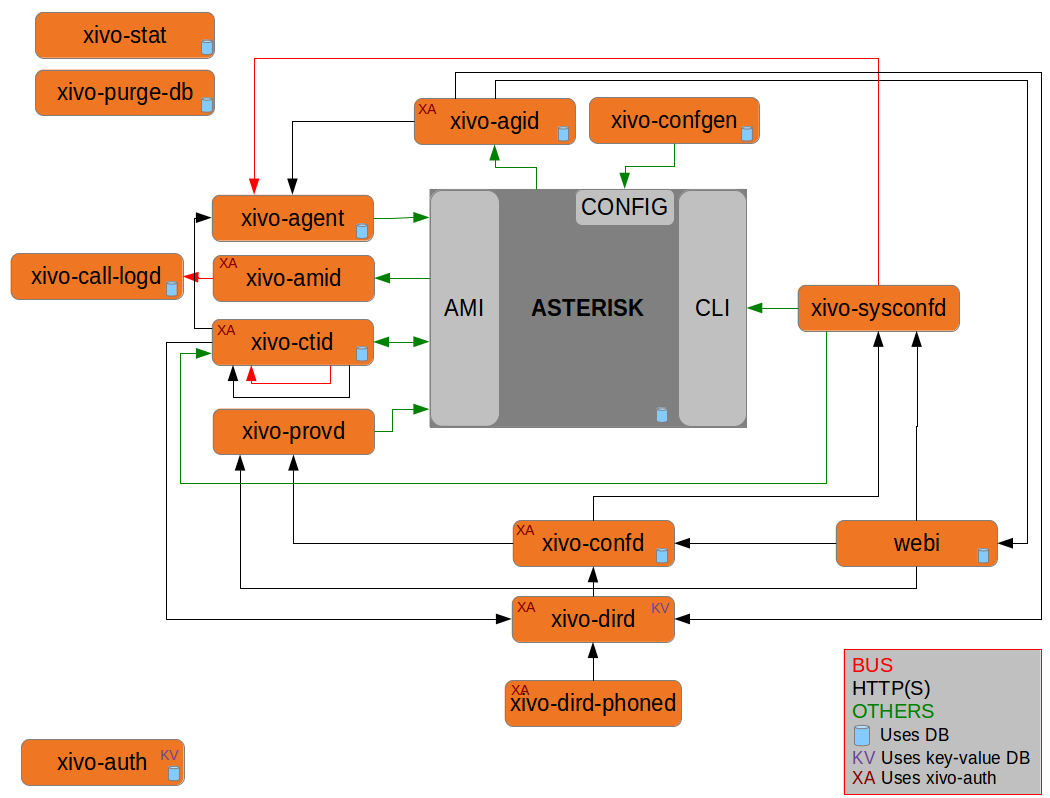
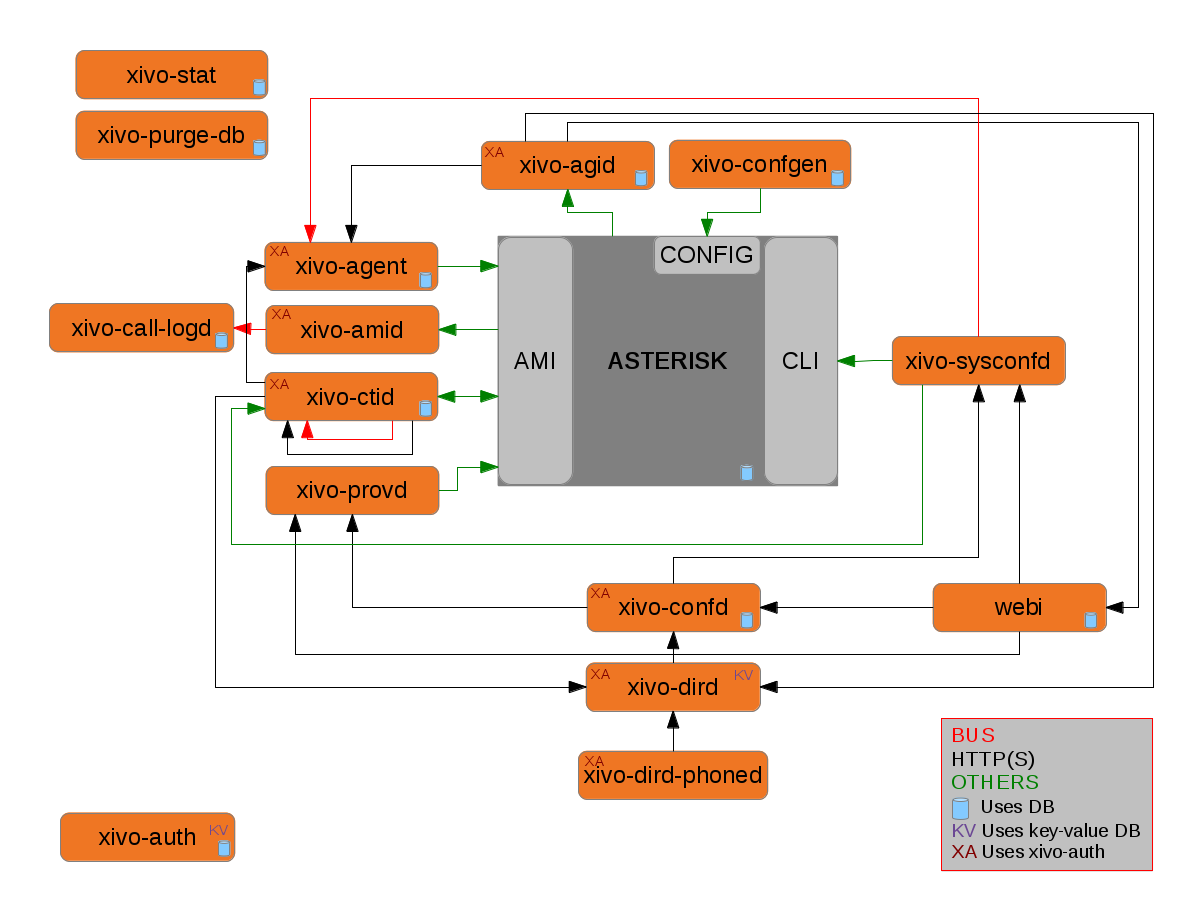
xivo-agentd mandatory token authentication

diff --git a/source/contributors/network.rst b/source/contributors/network.rst
@@ -76,7 +76,7 @@ Network Flow table (IN) :
 +------------------+-----------------+----------+------+-----------+----------------+---------+
 | xivo-amid        | HTTPS           | TCP      | 9491 | 0.0.0.0   | yes            | yes     |
 +------------------+-----------------+----------+------+-----------+----------------+---------+
-| xivo-agentd      | HTTPS           | TCP      | 9493 | 127.0.0.1 | yes            | yes     |
+| xivo-agentd      | HTTPS           | TCP      | 9493 | 0.0.0.0   | yes            | yes     |
 +------------------+-----------------+----------+------+-----------+----------------+---------+
 | xivo-ctid        | HTTP            | TCP      | 9495 | 127.0.0.1 | no             | yes     |
 +------------------+-----------------+----------+------+-----------+----------------+---------+

diff --git a/source/upgrade/upgrade.rst b/source/upgrade/upgrade.rst
@@ -158,6 +158,8 @@ Consult the `15.19 Roadmap <https://projects.xivo.io/versions/236>`_
   functional. See :ref:`the upgrade notes for 15.15 about directories <upgrade_notes_15_15>` for
   more details.
 * It is now possible to enable :ref:`dird-context-separation` in *xivo-dird*.
+* xivo-agentd now uses mandatory token authentication for its REST API. If you have custom
+  development using this service, update your program accordingly.
 
 
 15.18

diff --git a/source/api_sdk/rest_api/agentd/api.rst b/source/api_sdk/rest_api/agentd/api.rst
@@ -7,6 +7,13 @@ You can view the API documentation at http://api.xivo.io.
 Changelog
 =========
 
+15.19
+-----
+
+* Token authentication is now required for all routes, i.e. it is not possible to interact with
+  xivo-agentd without a xivo-auth authentication token.
+
+
 15.18
 -----
 
